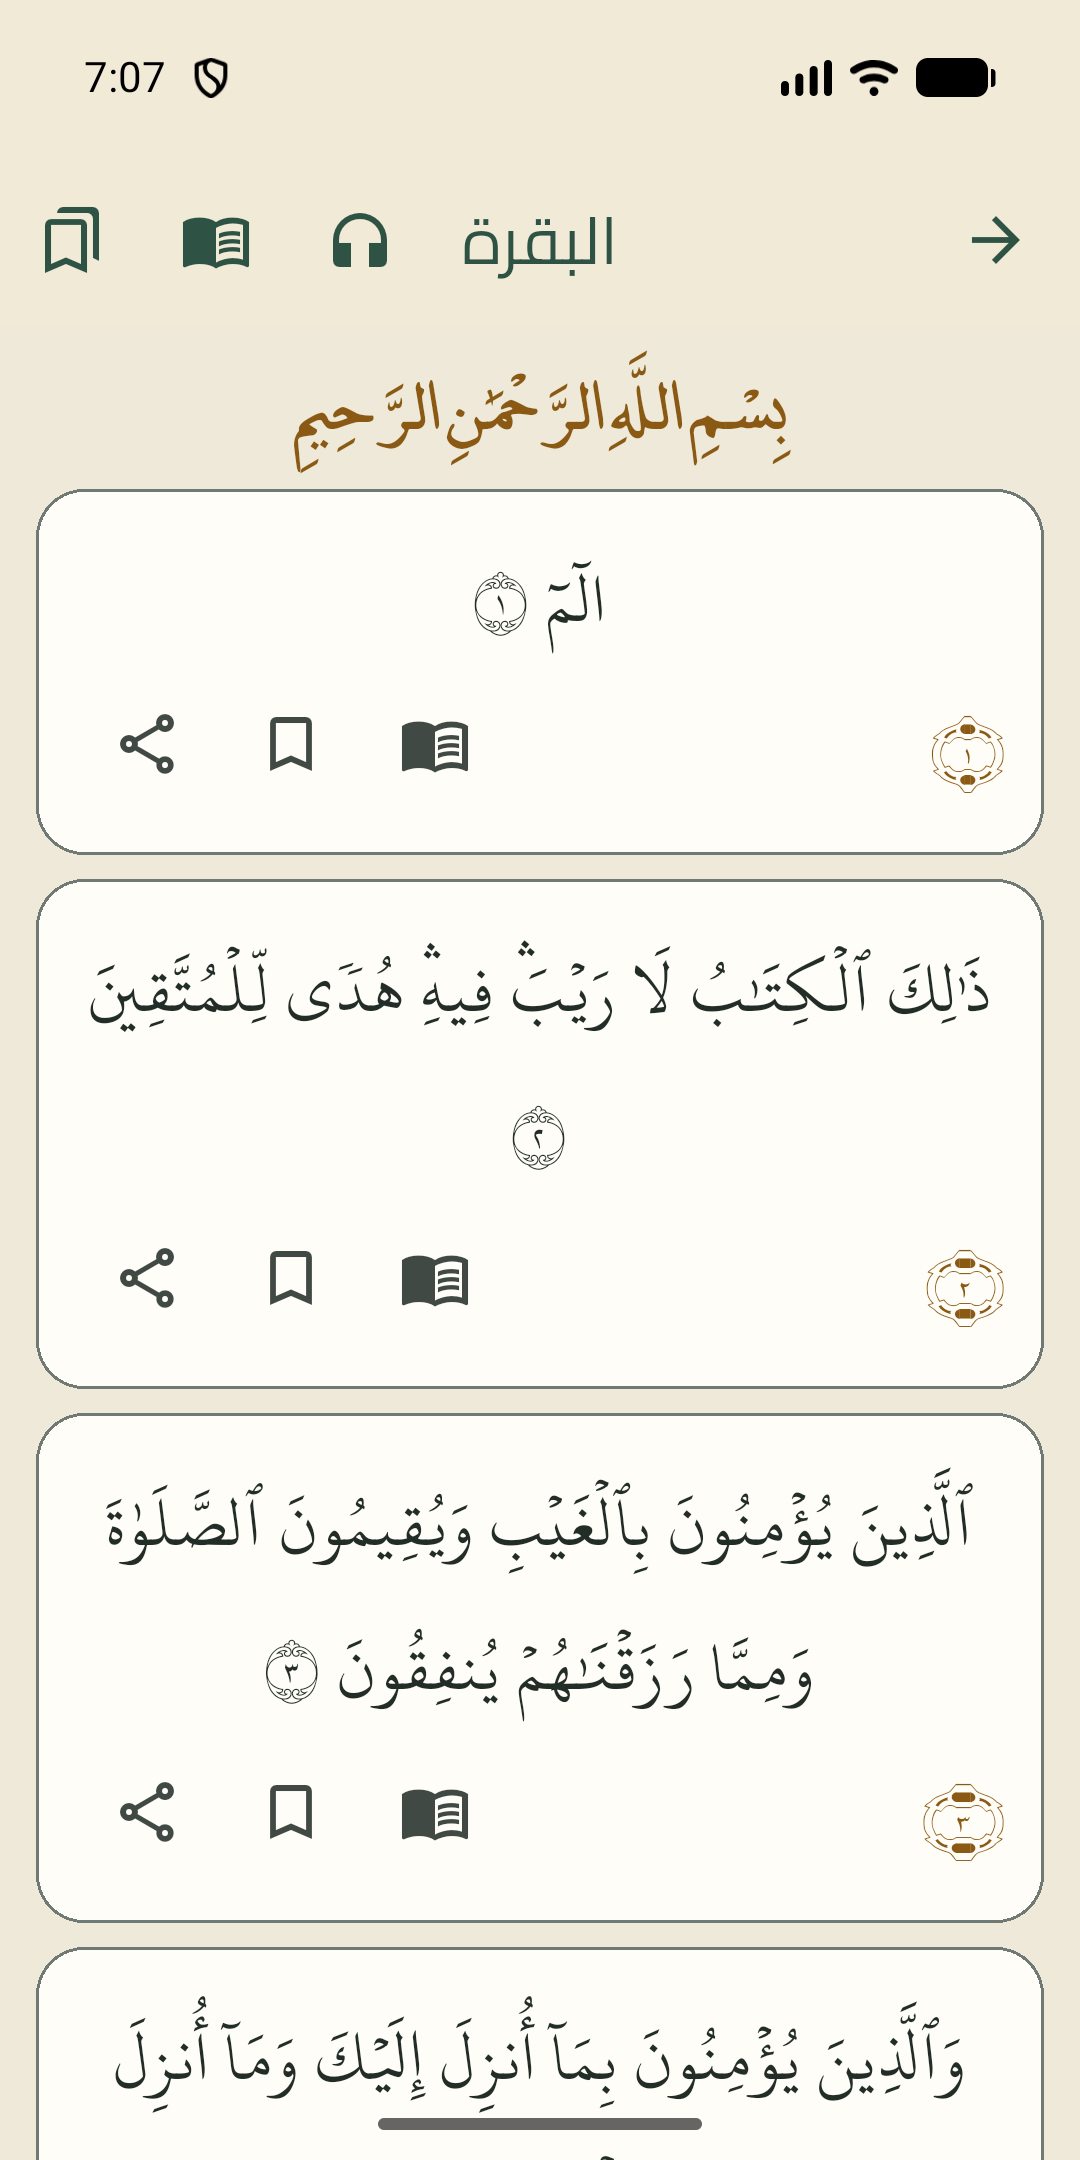
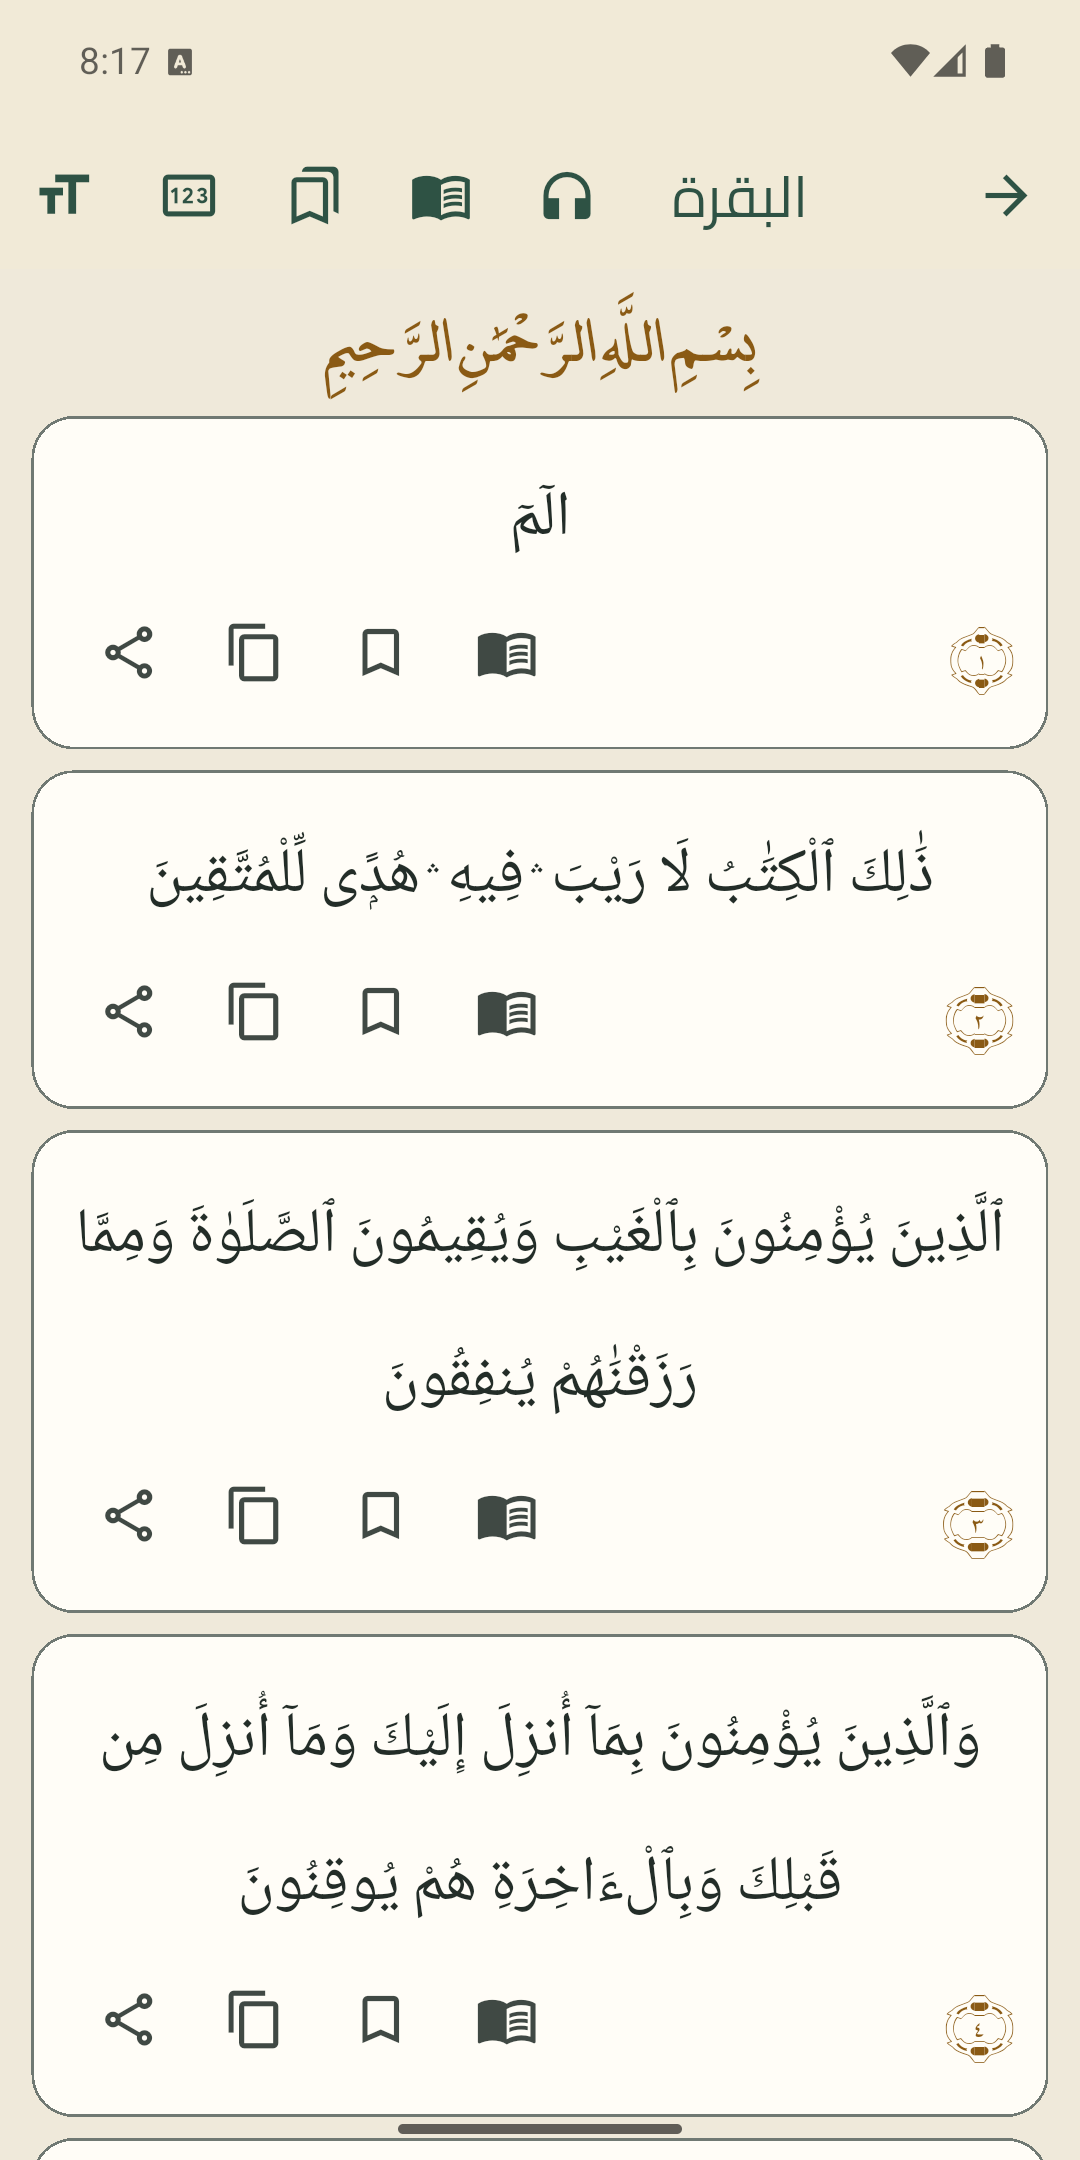
docs(store): re-shoot the 11 store screenshots and rebuild the feature graphic
The committed set was captured 2026-10-28 from 1.0.0+3 and no longer matched the shipped UI: the next-prayer card now names the city, the home grid is sectioned behind a bottom navigation bar, the reader carries a per-ayah action row and a toolbar menu, and the ayah sheet gained its tafsir tab.

New captures come from the signed 1.0.0+4 release build at 388b50d, on an Android 16 / API 36 emulator at 1080x2160 @ 420 dpi, flattened to 24-bit PNG with no alpha channel. The feature graphic was rebuilt from the current calligraphy icon and the app's own Cairo font; the old one still carried the retired open-book mark from 2026-10-24.

Listing and Play-console status notes updated, and the artifact hashes for the screenshot-pass build recorded so the images can be traced to a known tree.

Entire-Checkpoint: 01M78GBXGCA9CT29GG74DTA8KP

diff --git a/docs/store/play-console-setup.md b/docs/store/play-console-setup.md
@@ -22,10 +22,11 @@ Last updated: 2026-10-24 · Android only for this submission (no iOS/web listing
[3 lines of base64/hex data omitted]
-| R8 mapping (current `+4` build) | `build/app/outputs/mapping/release/mapping.txt` `23,316,959 B` — upload it with the bundle so Play de-obfuscates stack traces | Gradle `bundleRelease` |
+| R8 mapping (current `+4` build) | `build/app/outputs/mapping/release/mapping.txt` `29,387,071 B` · SHA-256 `EF4E5577…9B2715` · written 2026-11-10 and reused by the 2026-11-12 build because Gradle's R8 inputs were unchanged (no `android/`, `pubspec.yaml` or `pubspec.lock` commit since) — still valid for this AAB | Gradle `bundleRelease` |
 | R8 size delta (historical `+3` measurement) | AAB `73,292,322 B` without minify → `70,780,498 B` with R8 + resource shrinking (**−2.4 MB, −3.4 %**) |
 | Historical (2026-10-28, `+3`, pre-R8) | AAB `68,892,199 B` · SHA-256 `AFAFD398…F0588` · versionCode `3` · same owner cert (`SHA-256 DB:7F:FE:F4…46:85`) | Built from `76da2d7` with `PUBLISH_RELEASE=true`; superseded by the R8 build above |
 | Signed APK from the same tree (2026-10-28, `+3`) | `app-release.apk` `27,279,615 B` · SHA-256 `2A0E8E2C…73E423` · versionCode `3` · same cert · used for the emulator screenshot pass | `flutter build apk --release --target-platform android-x64` |
+| Screenshot-pass build (2026-11-12, `+4`) | AAB `96,864,213 B` · SHA-256 `9E83C43A…2F0FB5` · APK `98,865,103 B` · SHA-256 `E9FD364B…70BE0` · versionCode `4` · owner cert `DB:7F:FE:…:46:85` · Ed25519 policy key verified inside `base/lib/arm64-v8a/libapp.so` · `zipalign -c -P 16` passes | `tools/build_release.ps1` at `388b50d`; used for the 2026-11-12 emulator screenshot pass |
 | Historical (2026-10-24, `+2`) | AAB `68,195,926 B` · SHA-256 `90745181…CB713` · APK `69,497,234 B` · SHA-256 `61C95D0D…B63987` · versionCode `2` | Superseded; never published |
 | Keystore | `C:\Users\ASUS\keystores\quran-yahdi-release.jks` (`android/key.properties` is gitignored) | `docs/campaign-ledger.md:877` |
 

diff --git a/docs/store/listing-ar.md b/docs/store/listing-ar.md
@@ -72,7 +72,7 @@
 
 ## قائمة لقطات الشاشة (checklist) — مرشحون (ملتقطة)
 
-> حالة REL-1 (محدّثة 2026-10-28): المرشحون الـ11 **موجودون فعلًا** داخل `docs/store/screenshots/` بمقاس **1080×2160** وعُدّلت كلها من بناء `1.0.0+3` الموقّع (APK، ملفات `x86_64` على إيموليتور Pixel 9 Pro بمقاس 1080×2160). تُعاد اللقطات فقط إذا تغيّرت الواجهة.
+> حالة REL-1 (محدّثة 2026-11-12): المرشحون الـ11 **موجودون فعلًا** داخل `docs/store/screenshots/` بمقاس **1080×2160**، وأُعيد التقاطهم من بناء الإصدار `1.0.0+4` الموقّع (APK شامل، `x86_64` على إيموليتور Android 16 / API 36 بمقاس 1080×2160 ودقة 420). تُعاد اللقطات فقط إذا تغيّرت الواجهة.
 
 - [x] `01-home.png` — الرئيسية: بطاقة الصلاة القادمة + متابعة القراءة + شبكة الميزات (الأهم — أول صورة)
 - [x] `02-index.png` — فهرس السور مع شريط البحث
@@ -88,4 +88,4 @@
 
 مواصفات المتجر: هاتف (بورتريه) 16:9 أو 9:16، لقطات بدون بيانات شخصية حقيقية، الأولوية للوضع الفاتح.
 
-> حالة 2026-10-28: أُعيد التقاط المرشحين الـ11 من بناء `1.0.0+3` الموقّع على إيموليتور Pixel 9 Pro بمقاس **1080×2160** (قص 2:1 متوافق مع Play). اللقطات السابقة من 2026-10-18 (جهاز حقيقي) استُبدلت بالكامل. الاختيار والترتيب النهائيان لصاحب المشروع.
+> حالة 2026-11-12: أُعيد التقاط المرشحين الـ11 من بناء الإصدار `1.0.0+4` الموقّع (HEAD `388b50d`) على إيموليتور Android 16 بمقاس **1080×2160** (2:1 متوافق مع Play)، ومُسّطت إلى PNG 24-bit بلا قناة شفافية. مجموعة 2026-10-28 استُبدلت بالكامل — الواجهة تغيّرت (اسم المدينة على كارت الصلاة، شبكة رئيسية بأقسام، شريط تنقّل سفلي، صف أدوات لكل آية، تبويب التفسير في بطاقة الآية). الاختيار والترتيب النهائيان لصاحب المشروع.

diff --git a/docs/store/listing-en.md b/docs/store/listing-en.md
@@ -72,7 +72,7 @@ Privacy matters: no accounts, no ads, no tracking, no data collection — everyt
 
 ## Screenshot checklist — captured candidates
 
-> REL-1 status (updated 2026-10-28): all 11 captures **are committed** at `docs/store/screenshots/` at **1080×2160**, all re-shot from the signed `1.0.0+3` build (APK, `x86_64` on a Pixel 9 Pro emulator set to 1080×2160). Re-capture only if the UI changes.
+> REL-1 status (updated 2026-11-12): all 11 captures **are committed** at `docs/store/screenshots/` at **1080×2160**, re-shot from the signed `1.0.0+4` release build (universal APK, `x86_64` on an Android 16 / API 36 emulator at 1080×2160 @ 420 dpi). Re-capture only if the UI changes.
 
 - [x] `01-home.png` — Home: next-prayer hero + continue reading + feature grid (most important — first slot)
 - [x] `02-index.png` — Surah index with search field
@@ -88,4 +88,4 @@ Privacy matters: no accounts, no ads, no tracking, no data collection — everyt
 
 Specs: phone (portrait) 16:9 or 9:16, no real personal data in frame, light theme preferred.
 
-> 2026-10-28 status: all 11 candidates re-shot from the signed `1.0.0+3` build on a Pixel 9 Pro emulator at **1080×2160** (a 2:1 crop, Play-compliant); the 2026-10-18 real-device set was replaced wholesale. Final picks and ordering belong to the owner.
+> 2026-11-12 status: all 11 candidates re-shot from the signed `1.0.0+4` release build (HEAD `388b50d`) on an Android 16 emulator at **1080×2160** (2:1, Play-compliant), flattened to 24-bit PNG with no alpha. The 2026-10-28 set was replaced wholesale — the UI had drifted (city on the next-prayer card, sectioned home grid, bottom navigation, the reader's per-ayah action row, the ayah sheet's tafsir tab). Final picks and ordering belong to the owner.
